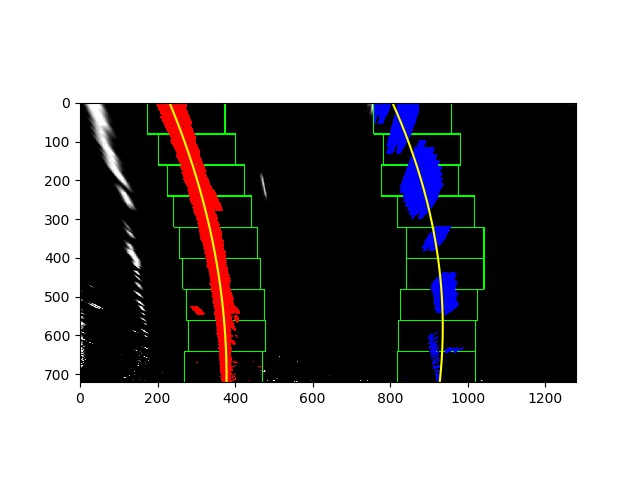
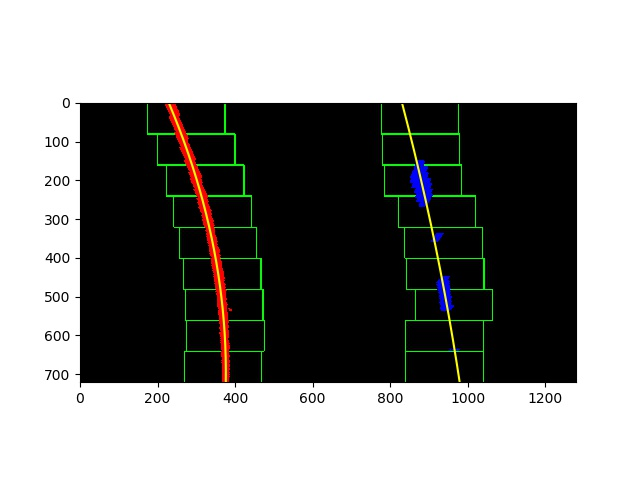
better thresholding

diff --git a/src/color_gradient_thrsh.py b/src/color_gradient_thrsh.py
@@ -93,20 +93,20 @@ def threshold_pipeline(img, s_thresh=(170, 255), sx_thresh=(20, 100), r_thresh=(
     r_channel = img[:, :, 0]
     s_channel = hls[:, :, 2]
 
-    light_channel = lab[:,:,0]
+    light_channel = lab[:, :, 0]
     # Sobel x
     sxbinary = abs_sobel_thresh(
         img, orient='x', sobel_kernel=ksize, thresh=sx_thresh)
 
     # direction = np.array(dir_threshold(img), dtype=bool)
-    mag = np.array( mag_thresh(img), dtype=bool)
+    mag = np.array(mag_thresh(img), dtype=bool)
     combined = np.zeros_like(s_channel)
 
     red_thresh = (r_channel >= r_thresh[0]) & (r_channel <= r_thresh[1])
     sat_thresh = (s_channel >= s_thresh[0]) & (s_channel <= s_thresh[1])
     gray_thresh = (gray >= g_thresh[0]) & (gray <= g_thresh[1])
-    light_thres = (light_channel >= l_thresh[0]) & (light_channel <= l_thresh[1])
-
+    light_thres = (light_channel >= l_thresh[0]) & (
+        light_channel <= l_thresh[1])
 
     # light_thres2 = (light_channellight_channel >= 0) & (light_channel <= l_thresh[1])
 
@@ -114,10 +114,11 @@ def threshold_pipeline(img, s_thresh=(170, 255), sx_thresh=(20, 100), r_thresh=(
 
     # combined[  ((light_thres | sxbinary==1 ) | (sat_thresh & gray_thresh)) & (light_thres2) ] = 1
 
-    combined[  ((light_thres | sxbinary == 1) | (sat_thresh & red_thresh))] = 1
+    # combined[((light_thres | sxbinary == 1) | (sat_thresh & red_thresh))] = 1
 
     # this will result in less noise, but less data
-    combined[  ((light_thres | sxbinary==1) | (sat_thresh & gray_thresh)) & (red_thresh)  ] = 1
+    combined[((light_thres | sxbinary == 1) | (
+        sat_thresh & gray_thresh)) & (red_thresh)] = 1
     # combined[  ((light_thres | sxbinary == 1)) ] = 1
 
     # combined[((r_channel >= r_thresh[0]) & (r_channel <= r_thresh[1])) | ((s_channel >= s_thresh[0]) & (
@@ -131,6 +132,7 @@ def threshold_pipeline(img, s_thresh=(170, 255), sx_thresh=(20, 100), r_thresh=(
    # color_binary = np.dstack(
    #     (np.zeros_like(sxbinary), sxbinary, s_binary)) * 255
    # return color_binary
+
 
 def test():
     images = glob.glob('../test_images/test*.jpg')
@@ -149,7 +151,6 @@ def test():
     result = threshold_pipeline(image)
     cv2.imshow('pipelne', cv2.cvtColor(result, cv2.COLOR_RGB2BGR))
     cv2.waitKey(0)
-
 
     image = mpimg.imread('../test_images/test3.jpg')
     result = threshold_pipeline(image)
